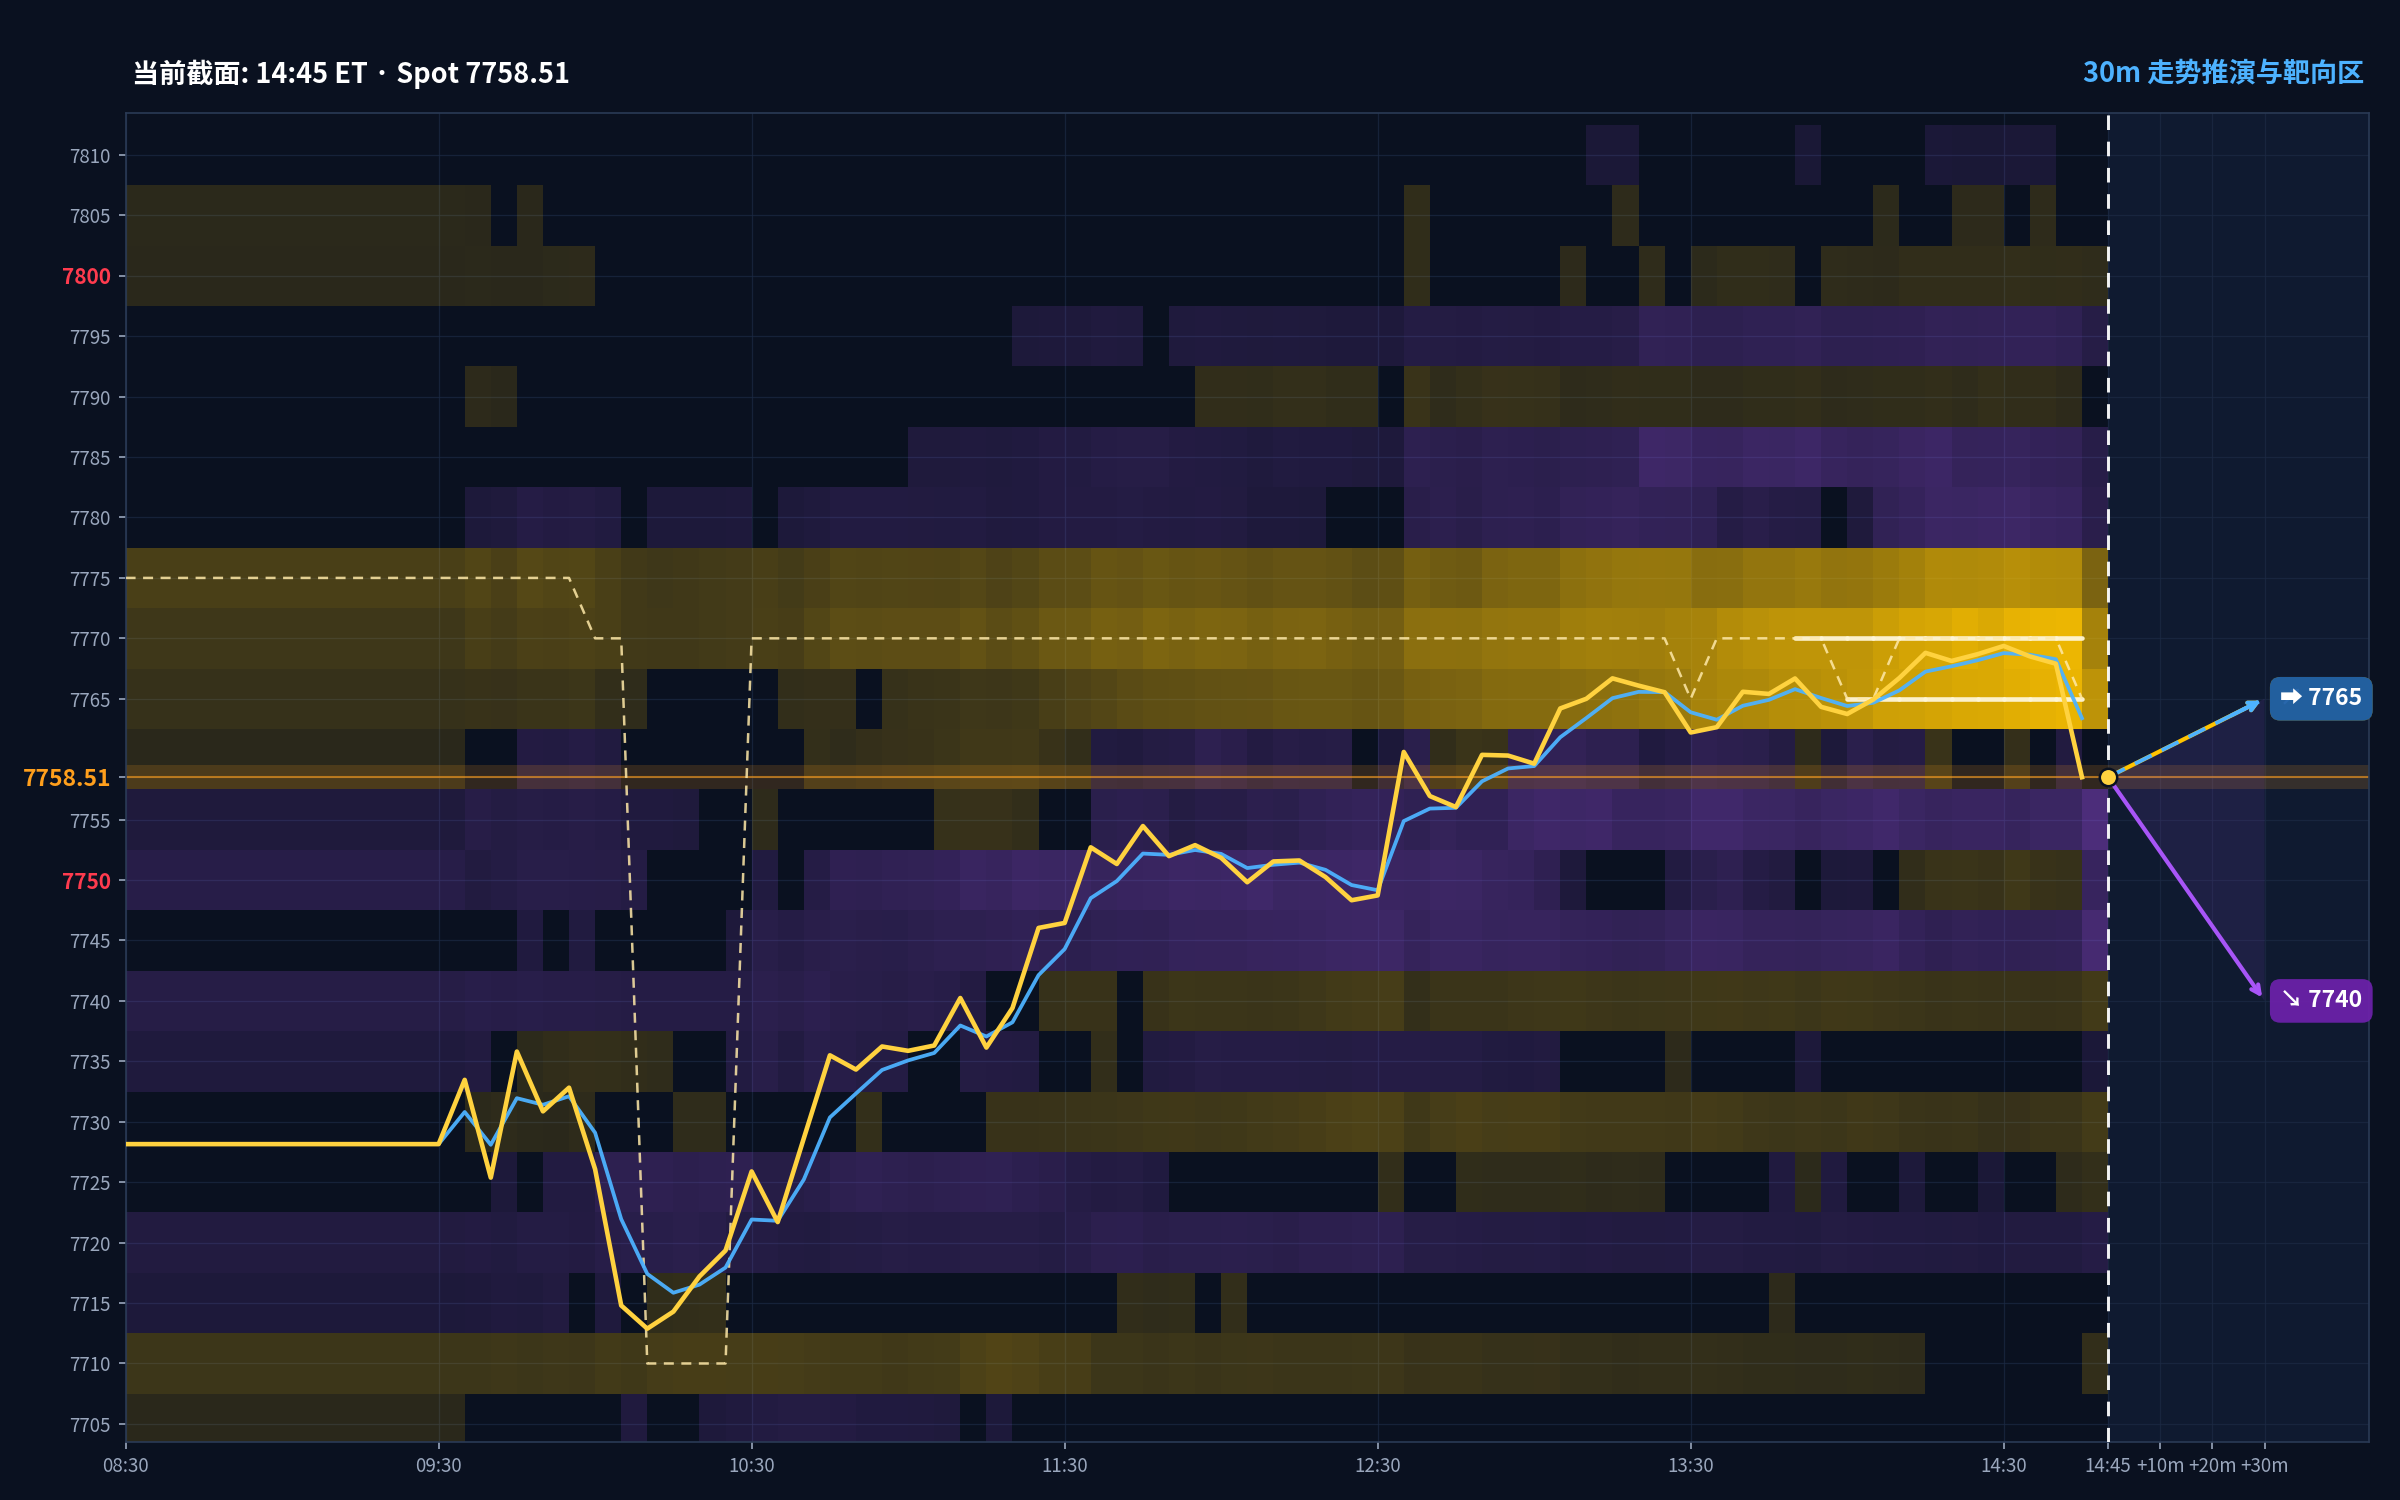
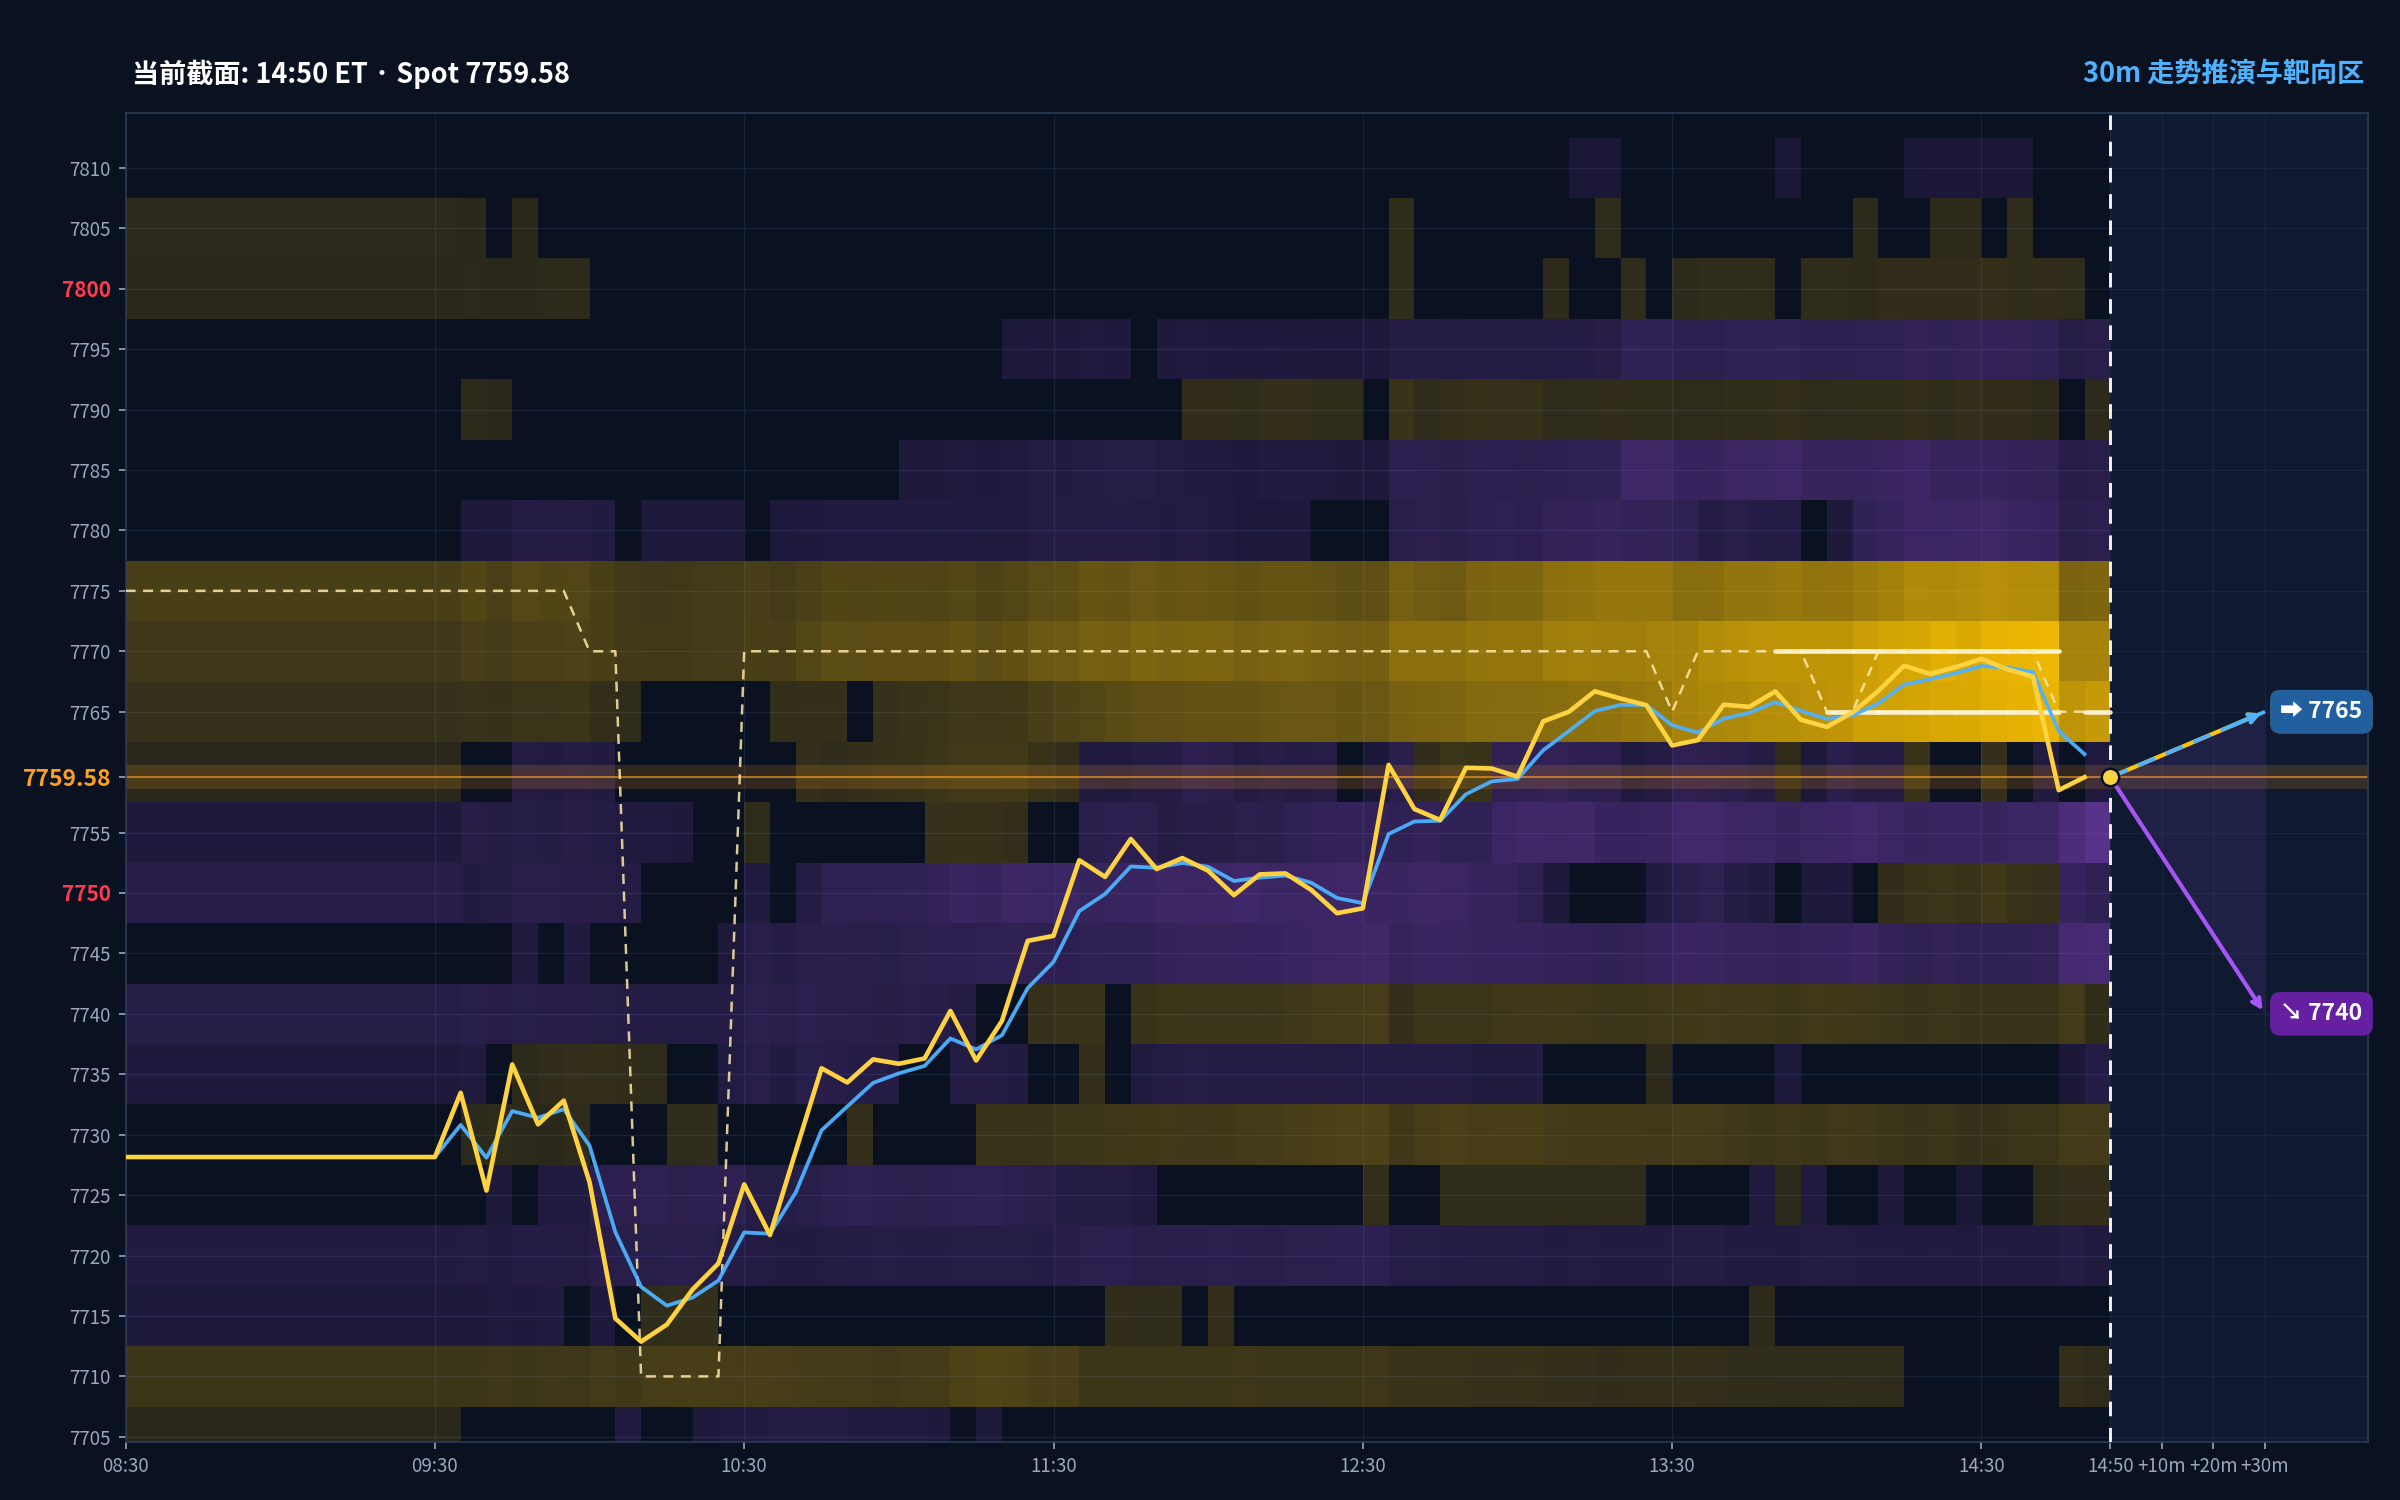
live: SPX 实时监控 2026-10-21 14:50 ET

diff --git a/live/index.html b/live/index.html
@@ -58,6 +58,27 @@
   .lvgrid.small .lvbox{padding:7px 10px;}
   .lvgrid.small .v{font-size:16px;}
   h3.subh{font-size:13.5px; color:var(--muted); margin:2px 0 8px; font-weight:600;}
+  .rngbox{background:var(--panel); border:1px solid var(--line); border-radius:10px;
+          padding:14px 14px 8px; margin-bottom:16px;}
+  .rngrow{display:flex; align-items:center; gap:10px; margin-bottom:4px;}
+  .rnglab{flex:0 0 40px; font-size:13px; font-weight:700;}
+  .rngtrack{position:relative; flex:1; height:26px; background:#0a1425;
+            border:1px solid var(--line); border-radius:6px;}
+  .rngband{position:absolute; top:3px; bottom:3px; border-radius:4px;}
+  .rngband.off{border:1.5px solid #2fd48c; background:rgba(47,212,140,.10);}
+  .rngband.brf{background:rgba(77,178,255,.45); border:1px solid #4db2ff;}
+  .rngctr{position:absolute; top:0; bottom:0; width:2px; background:#fff; opacity:.85; z-index:2;}
+  .rngedge{position:absolute; top:50%; transform:translateY(-50%); font-size:11px;
+           color:#c8d4e6; font-variant-numeric:tabular-nums; white-space:nowrap; z-index:2;
+           text-shadow:0 1px 3px #000;}
+  .rngspot{position:absolute; top:-4px; bottom:-4px; width:2px; background:var(--yellow); z-index:3;}
+  .rngspot.tri::before{content:"▼"; position:absolute; top:-14px; left:50%;
+           transform:translateX(-50%); color:var(--yellow); font-size:11px;}
+  .rngmeta{font-size:12.5px; color:var(--muted); margin:0 0 12px 50px;
+           font-variant-numeric:tabular-nums; line-height:1.6;}
+  .rngmeta b{color:var(--ink);}
+  .rngscale{display:flex; justify-content:space-between; gap:8px; font-size:11.5px;
+            color:var(--muted); margin:0 0 6px 50px; font-variant-numeric:tabular-nums;}
   .chartbox{background:var(--panel); border:1px solid var(--line); border-radius:10px;
             padding:8px; margin-bottom:16px;}
   .chartbox img{width:100%; height:auto; display:block; border-radius:6px;}
@@ -99,6 +120,9 @@
   <div class="lvgrid" id="levels"><div class="empty">加载中…</div></div>
   <h3 class="subh">次要参考（昨开 / 昨收 · 周一 / 周二高低）</h3>
   <div class="lvgrid small" id="levels2"></div>
+
+  <h2>区间位置<span>官方区间（昨晚 NW 预告 90%）描边 · 日报区间（9:30 简报）填充 · 白刻为中心 · 黄线为现价</span></h2>
+  <div class="rngbox" id="rangebox"><div class="empty">加载中…</div></div>
 
   <div class="chartbox"><img id="chart" src="spx_heatmap_live.png" alt="SPX 0DTE heatmap 河流图"></div>
 
@@ -174,6 +198,62 @@ function load(){
                s.levels.filter(function(L){ return L.tier === "primary"; }));
       lvRender(document.getElementById("levels2"),
                s.levels.filter(function(L){ return L.tier === "secondary"; }));
+    }
+    var rbEl = document.getElementById("rangebox");
+    if (rbEl && s.range && s.spot != null){
+      var R = s.range, rSpot = s.spot;
+      var vs = [rSpot];
+      ["official","brief"].forEach(function(k){
+        if (R[k]){ vs.push(R[k].low, R[k].high); }
+      });
+      if (R.realized){ vs.push(R.realized.low, R.realized.high); }
+      var mn = Math.min.apply(null, vs), mx = Math.max.apply(null, vs);
+      var pad = Math.max((mx - mn) * 0.06, 5); mn -= pad; mx += pad;
+      function rpct(v){ return ((v - mn) / (mx - mn) * 100) + "%"; }
+      rbEl.innerHTML = "";
+      function bandRow(lab, B, cls, withTri){
+        var row = document.createElement("div"); row.className = "rngrow";
+        var lb = document.createElement("div"); lb.className = "rnglab";
+        lb.textContent = lab; row.appendChild(lb);
+        var tr = document.createElement("div"); tr.className = "rngtrack";
+        row.appendChild(tr); rbEl.appendChild(row);
+        if (!B){
+          var e = document.createElement("div"); e.className = "empty";
+          e.textContent = "数据未到"; tr.appendChild(e); return;
+        }
+        var bd = document.createElement("div"); bd.className = "rngband " + cls;
+        bd.style.left = rpct(B.low);
+        bd.style.width = ((B.high - B.low) / (mx - mn) * 100) + "%";
+        tr.appendChild(bd);
+        var ct = document.createElement("div"); ct.className = "rngctr";
+        ct.style.left = rpct(B.center); tr.appendChild(ct);
+        var sp = document.createElement("div");
+        sp.className = "rngspot" + (withTri ? " tri" : "");
+        sp.style.left = rpct(rSpot); tr.appendChild(sp);
+        var el = document.createElement("div"); el.className = "rngedge";
+        el.style.left = "5px"; el.textContent = fmtPx(B.low); tr.appendChild(el);
+        var eh = document.createElement("div"); eh.className = "rngedge";
+        eh.style.right = "5px"; eh.textContent = fmtPx(B.high); tr.appendChild(eh);
+        var meta = document.createElement("div"); meta.className = "rngmeta";
+        var posTxt = "位置 <b>" + B.pos_pct + "%</b>";
+        if (B.pos_pct > 100) posTxt += "（已破上沿）";
+        else if (B.pos_pct < 0) posTxt += "（已破下沿）";
+        meta.innerHTML = lab + "区间 <b>" + fmtPx(B.low) + "–" + fmtPx(B.high) +
+          "</b> · 中心 <b>" + fmtPx(B.center) + "</b>（距中心 " +
+          (B.center_dist >= 0 ? "+" : "") + B.center_dist + " 点）· " + posTxt +
+          (B.consumed_pct != null ? " · 振幅消耗 <b>" + B.consumed_pct + "%</b>" : "");
+        rbEl.appendChild(meta);
+      }
+      bandRow("官方", R.official, "off", true);
+      bandRow("日报", R.brief, "brf", false);
+      var sc = document.createElement("div"); sc.className = "rngscale";
+      var scL = document.createElement("span"); scL.textContent = fmtPx(mn);
+      var scM = document.createElement("span");
+      scM.textContent = "现价 " + fmtPx(rSpot) + (R.realized ?
+        " · 今日已实现 " + fmtPx(R.realized.low) + "–" + fmtPx(R.realized.high) : "");
+      var scR = document.createElement("span"); scR.textContent = fmtPx(mx);
+      sc.appendChild(scL); sc.appendChild(scM); sc.appendChild(scR);
+      rbEl.appendChild(sc);
     }
     var feed = document.getElementById("feed");
     if (s.changes && s.changes.length){
